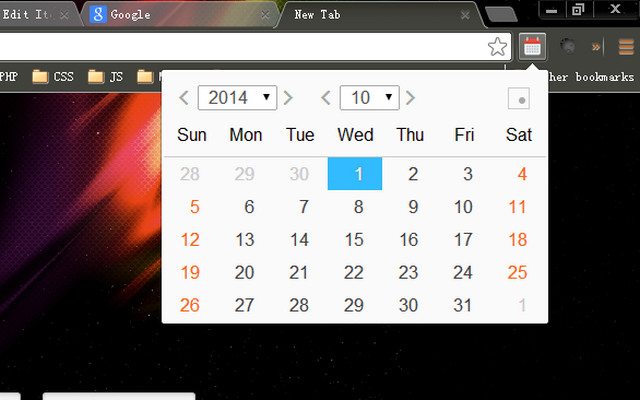
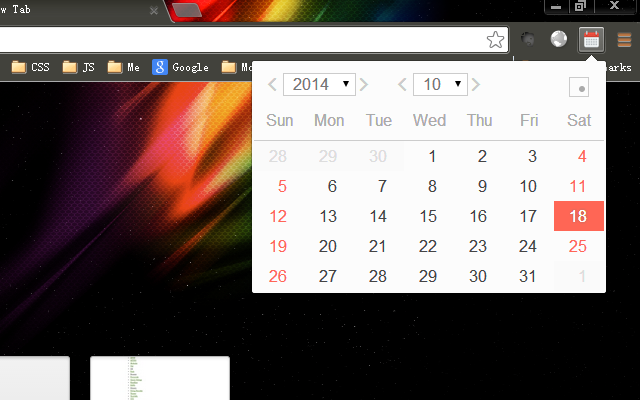
Change font and color style

diff --git a/build/css/style.css b/build/css/style.css
@@ -1,1 +1,1 @@
-@font-face{font-family:arrow-icon;src:url(../font/arrow.eot?57231838);src:url(../font/arrow.eot?57231838#iefix) format('embedded-opentype'),url(../font/arrow.woff?57231838) format('woff'),url(../font/arrow.ttf?57231838) format('truetype'),url(../font/arrow.svg?57231838#arrow) format('svg');font-weight:400;font-style:normal}body{margin:0;font-family:Arial,sans-serif;background-color:#aaa}ul{list-style:none;margin:0;padding:0}.fl{float:left}.fr{float:right}.cf:after{content:' ';height:0;visibility:hidden;display:block;clear:both}.visualhidden{position:absolute;overflow:hidden;clip:rect(0,0,0,0);height:1px;width:1px;margin:-1px;padding:0;border:0}[class*=" icon-"]:before,[class^=icon-]:before{font-family:arrow-icon;font-style:normal;font-weight:400;speak:none;display:inline-block;text-decoration:inherit;width:1em;margin-right:.2em;text-align:center}.icon-left-open:before{content:'\e800'}.icon-right-open:before{content:'\e801'}.calendar{width:350px;background-color:#fafafa}.calendar *{-webkit-user-select:none;user-select:none}.cl-head{padding-top:10px}.cl-month,.cl-year{width:120px;padding-left:10px}.cl-next-month,.cl-next-year,.cl-prev-month,.cl-prev-year{color:#aaa;cursor:pointer}.cl-next-month:hover,.cl-next-year:hover,.cl-prev-month:hover,.cl-prev-year:hover{color:#777}.cl-month-list,.cl-year-list{padding:0 5px;font-size:16px;color:#555;outline:0}.cl-current{margin-right:15px;width:20px;height:27px;line-height:27px}.cl-current-date{display:inline-block;margin-top:3px;width:18px;height:18px;line-height:1;text-align:right;border:1px solid #ccc;cursor:pointer}.cl-current-date:after{content:'';display:inline-block;margin-right:3px;width:6px;height:6px;border-radius:3px;background-color:#aaa}.cl-current-date:hover{border-color:#aaa}.cl-current-date:hover:after{background-color:#777}.week-titles{border-bottom:1px solid #ccc}.week-titles li{float:left;width:50px;height:40px;line-height:40px;text-align:center;cursor:default}.days-list li{float:left;width:33px;padding-right:17px;height:30px;line-height:30px;text-align:right;color:#444;-webkit-transition:background-color .15s ease-in;transition:background-color .15s ease-in}.days-list li:hover{background-color:#eaeaea;color:#000;cursor:default}.days-list .weekend,.days-list .weekend:hover{color:#f60}.days-list .next-month,.days-list .next-month:hover,.days-list .prev-month,.days-list .prev-month:hover{color:#ccc;background-color:#fafafa}.days-list .now,.days-list .now:hover{background-color:#3bf;color:#fff;text-shadow:0 0 4px #777}
+@font-face{font-family:arrow-icon;src:url(../font/arrow.eot?57231838);src:url(../font/arrow.eot?57231838#iefix) format('embedded-opentype'),url(../font/arrow.woff?57231838) format('woff'),url(../font/arrow.ttf?57231838) format('truetype'),url(../font/arrow.svg?57231838#arrow) format('svg');font-weight:400;font-style:normal}body{margin:0;font:16px Arial,sans-serif;background-color:#aaa}ul{list-style:none;margin:0;padding:0}.fl{float:left}.fr{float:right}.cf:after{content:' ';height:0;visibility:hidden;display:block;clear:both}.visualhidden{position:absolute;overflow:hidden;clip:rect(0,0,0,0);height:1px;width:1px;margin:-1px;padding:0;border:0}[class*=" icon-"]:before,[class^=icon-]:before{font-family:arrow-icon;font-style:normal;font-weight:400;speak:none;display:inline-block;text-decoration:inherit;width:1em;margin-right:.2em;text-align:center}.icon-left-open:before{content:'\e800'}.icon-right-open:before{content:'\e801'}.calendar{width:350px;background-color:#fcfcfc}.calendar *{-webkit-user-select:none;user-select:none}.cl-head{padding-top:10px}.cl-month,.cl-year{width:120px;padding-left:10px}.cl-next-month,.cl-next-year,.cl-prev-month,.cl-prev-year{color:#ccc;cursor:pointer}.cl-next-month:hover,.cl-next-year:hover,.cl-prev-month:hover,.cl-prev-year:hover{color:#999}.cl-month-list,.cl-year-list{padding:0 5px;font-size:16px;color:#777;border-color:#ccc;outline:0}.cl-month-list:hover,.cl-year-list:hover{border-color:#999}.cl-current{margin-right:15px;width:20px;height:27px;line-height:27px}.cl-current-date{display:inline-block;margin-top:3px;width:18px;height:18px;line-height:1;text-align:right;border:1px solid #ccc;cursor:pointer}.cl-current-date:after{content:'';display:inline-block;margin-right:3px;width:6px;height:6px;border-radius:3px;background-color:#aaa}.cl-current-date:hover{border-color:#aaa}.cl-current-date:hover:after{background-color:#777}.week-titles{border-bottom:1px solid #ccc}.week-titles li{float:left;width:50px;height:40px;line-height:40px;text-align:center;color:#aaa;cursor:default}.days-list li{float:left;width:33px;padding-right:17px;height:30px;line-height:30px;text-align:right;color:#444;-webkit-transition:background-color .15s ease-out;transition:background-color .15s ease-out}.days-list li:hover{background-color:#eee;color:#000;cursor:default}.days-list .weekend,.days-list .weekend:hover{color:#f65}.days-list .next-month,.days-list .next-month:hover,.days-list .prev-month,.days-list .prev-month:hover{color:#ddd;background-color:#fafafa}.days-list .now,.days-list .now:hover{background-color:#f65;color:#fff;text-shadow:0 0 4px #777}

diff --git a/css/style.css b/css/style.css
@@ -10,7 +10,7 @@
 }
 body {
     margin: 0;
-    font-family: Arial, sans-serif;
+    font: 16px Arial, sans-serif;
     background-color: #aaa;
 }
 ul {
@@ -58,7 +58,7 @@ ul {
 
 .calendar {
     width: 350px;
-    background-color: #fafafa;
+    background-color: #fcfcfc;
 }
 .calendar * {
     -webkit-user-select: none;
@@ -76,21 +76,26 @@ ul {
 .cl-next-year,
 .cl-prev-month,
 .cl-next-month {
-    color: #aaa;
+    color: #ccc;
     cursor: pointer;
 }
 .cl-prev-year:hover,
 .cl-next-year:hover,
 .cl-prev-month:hover,
 .cl-next-month:hover {
-    color: #777;
+    color: #999;
 }
 .cl-year-list,
 .cl-month-list {
     padding: 0 5px;
     font-size: 16px;
-    color: #555;
+    color: #777;
+    border-color: #ccc;
     outline: none;
+}
+.cl-year-list:hover,
+.cl-month-list:hover {
+    border-color: #999;
 }
 .cl-current {
     margin-right: 15px;
@@ -132,6 +137,7 @@ ul {
     height: 40px;
     line-height: 40px;
     text-align: center;
+    color: #aaa;
     cursor: default;
 }
 .days-list li {
@@ -142,28 +148,28 @@ ul {
     line-height: 30px;
     text-align: right;
     color: #444;
-    -webkit-transition: background-color .15s ease-in;
-    transition: background-color .15s ease-in;
+    -webkit-transition: background-color .15s ease-out;
+    transition: background-color .15s ease-out;
 }
 .days-list li:hover {
-    background-color: #eaeaea;
+    background-color: #eee;
     color: #000;
     cursor: default;
 }
 .days-list .weekend,
 .days-list .weekend:hover {
-    color: #f60;
+    color: #f65;
 }
 .days-list .prev-month,
 .days-list .next-month,
 .days-list .prev-month:hover,
 .days-list .next-month:hover {
-    color: #ccc;
+    color: #ddd;
     background-color: #fafafa;
 }
 .days-list .now,
 .days-list .now:hover {
-    background-color: #3bf;
+    background-color: #f65;
     color: #fff;
     text-shadow: 0 0 4px #777;
 }
